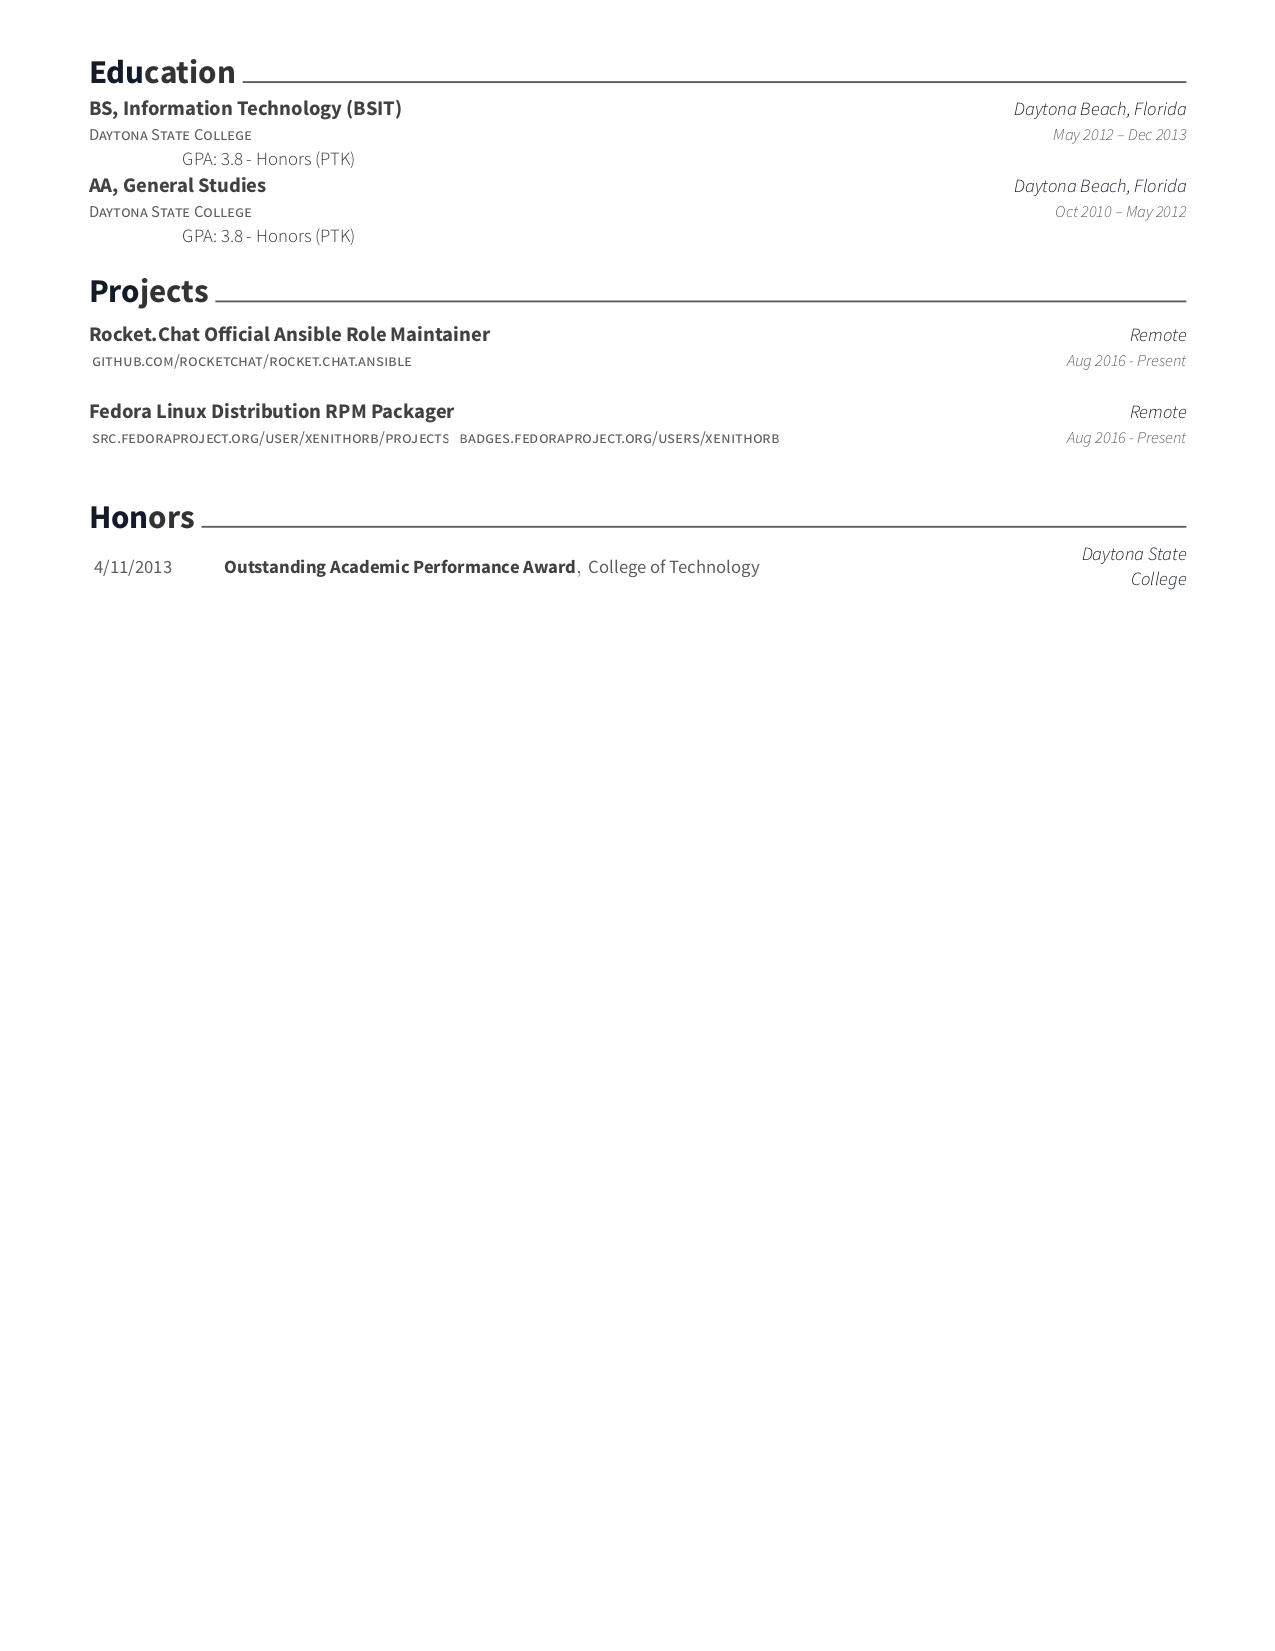
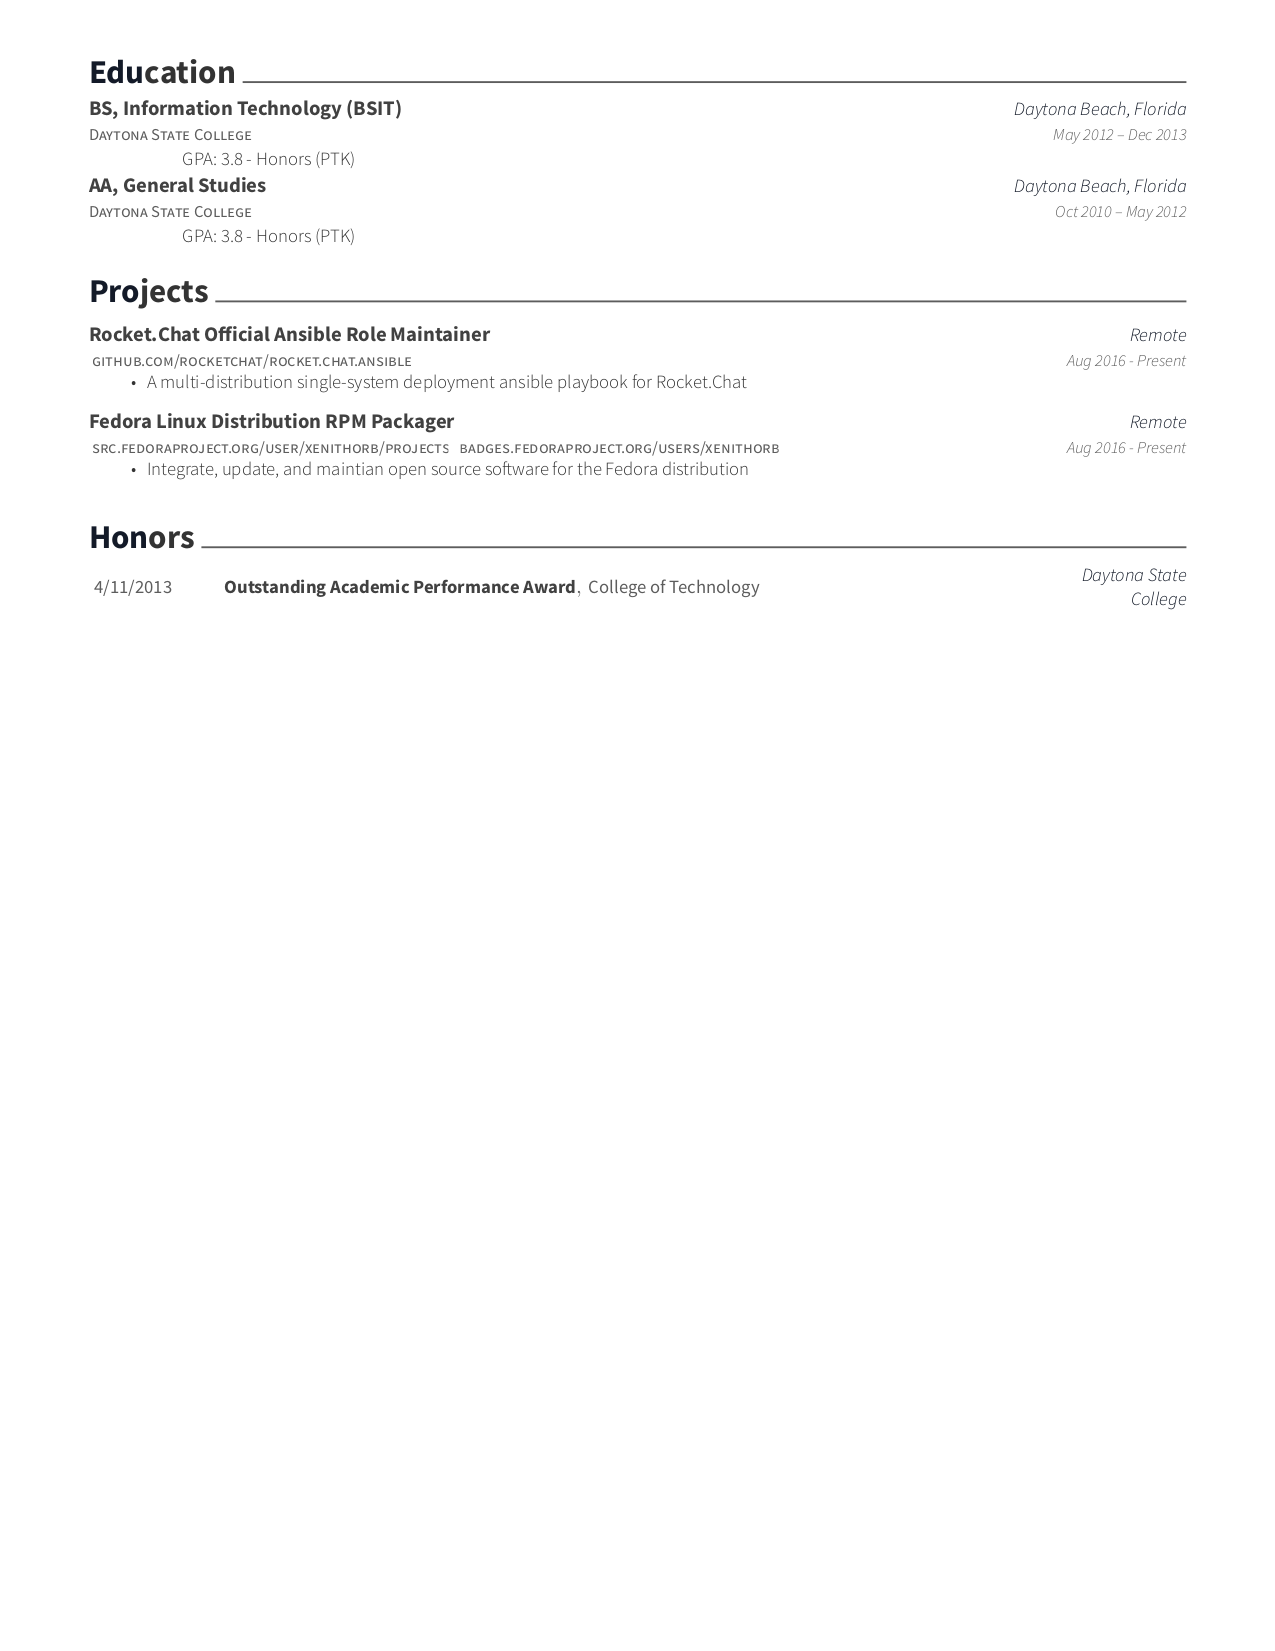
Update project descriptions

diff --git a/resume/projects.tex b/resume/projects.tex
@@ -9,7 +9,10 @@
 	}
 	{Rocket.Chat Official Ansible Role Maintainer}
 	{Remote}
-	{Aug 2016 - Present}{}
+	{Aug 2016 - Present}
+	{\begin{cvitems}
+		\item {A multi-distribution single-system deployment ansible playbook for Rocket.Chat}
+		\end{cvitems}}
 	\cventry
 	{
 		\href{https://src.fedoraproject.org/user/xenithorb/projects}{ src.fedoraproject.org/user/xenithorb/projects }
@@ -17,5 +20,8 @@
 	}
 	{Fedora Linux Distribution RPM Packager}
 	{Remote}
-	{Aug 2016 - Present}{}
+	{Aug 2016 - Present}
+	{\begin{cvitems}
+		\item {Integrate, update, and maintian open source software for the Fedora distribution}
+		\end{cvitems}}
 \end{cventries}
